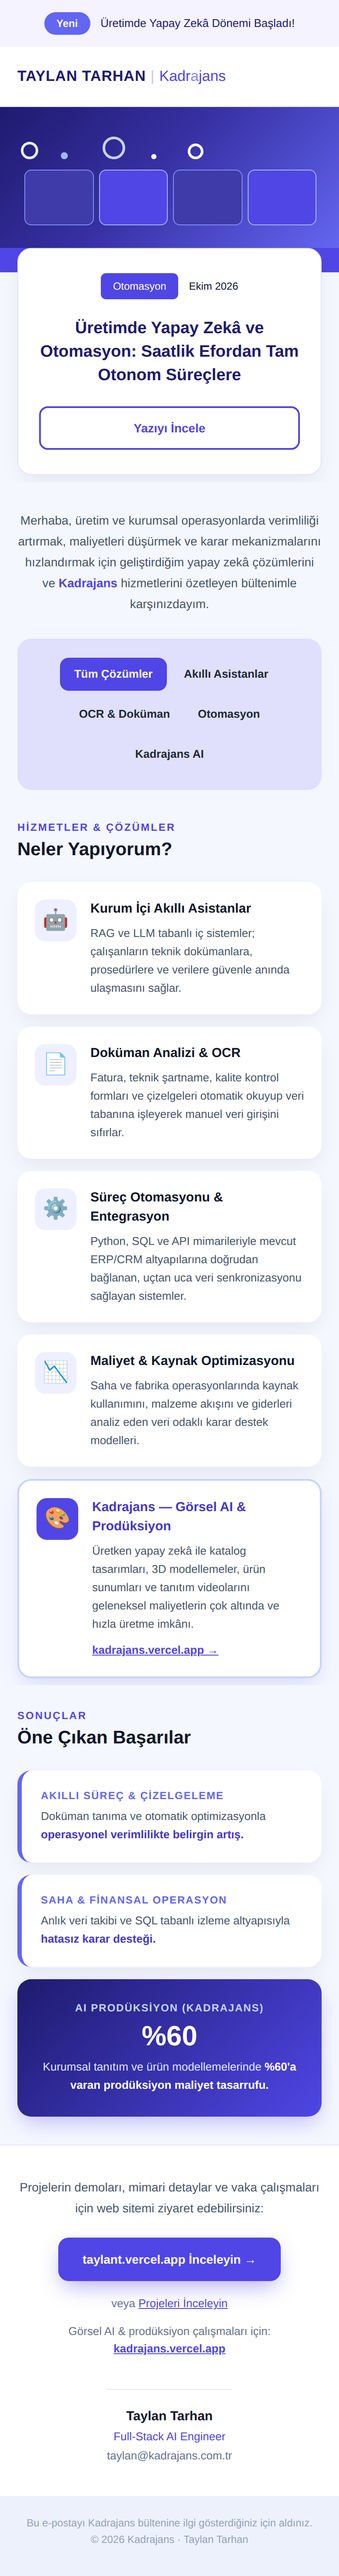
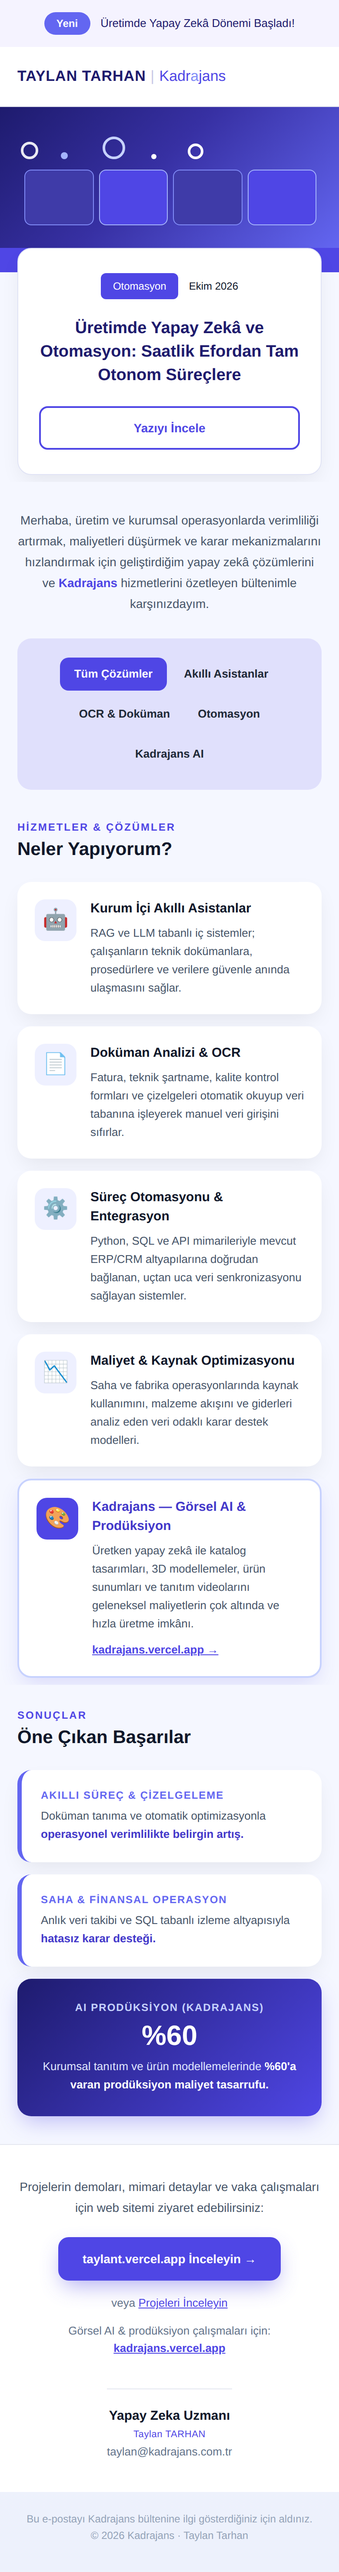
İmzayı 'Yapay Zeka Uzmanı' başlığı ve küçük punto isimle güncelle
Claude-Session: https://claude.ai/code/session_01Dy8T3rEx6MDvU9o5oYD5pN

diff --git a/newsletter/kadrajans-bulten.html b/newsletter/kadrajans-bulten.html
@@ -276,8 +276,8 @@
     <tr>
       <td bgcolor="#ffffff" class="px" align="center" style="background-color:#ffffff;padding:24px 32px 36px 32px;">
         <table role="presentation" cellpadding="0" cellspacing="0" border="0" align="center"><tr><td style="border-top:1px solid #e5e7f0;padding-top:20px;" align="center">
-          <p style="margin:0;font-family:'Poppins',Arial,sans-serif;font-size:15px;line-height:22px;font-weight:700;color:#0f172a;">Taylan Tarhan</p>
-          <p style="margin:2px 0 0 0;font-family:'Poppins',Arial,sans-serif;font-size:13px;line-height:20px;color:#4f46e5;font-weight:500;">Full-Stack AI Engineer</p>
+          <p style="margin:0;font-family:'Poppins',Arial,sans-serif;font-size:15px;line-height:22px;font-weight:700;color:#0f172a;">Yapay Zeka Uzmanı</p>
+          <p style="margin:2px 0 0 0;font-family:'Poppins',Arial,sans-serif;font-size:11px;line-height:16px;color:#4f46e5;font-weight:500;letter-spacing:.3px;">Taylan TARHAN</p>
           <p style="margin:2px 0 0 0;font-family:'Poppins',Arial,sans-serif;font-size:13px;line-height:20px;color:#64748b;"><a href="mailto:taylan@kadrajans.com.tr" style="color:#64748b;">taylan@kadrajans.com.tr</a></p>
         </td></tr></table>
       </td>
